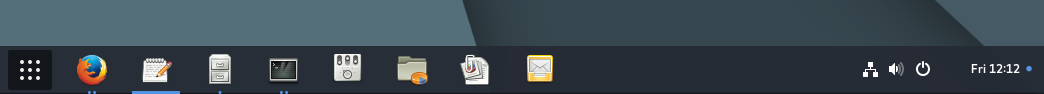
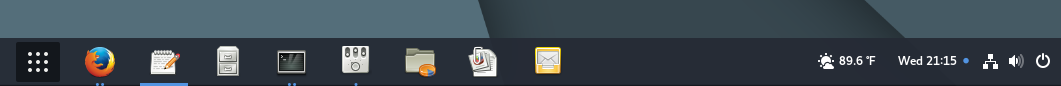
update configuration defaults and screenshot

diff --git a/README.md b/README.md
@@ -2,18 +2,20 @@
 ![screenshot](https://github.com/jderose9/dash-to-panel/raw/master/media/screenshot.png)
 
 ## An icon taskbar for the GNOME Shell
-An icon taskbar for the Gnome Shell. This extension moves the dash into the gnome main panel (top bar) to behave as an icon-only task manager similar to that found in KDE Plasma and Windows 7+.
+An icon taskbar for the Gnome Shell. This extension moves the dash into the gnome main panel so that the application launchers and system tray are combined into a single panel, similar to that found in KDE Plasma and Windows 7+. A separate dock is no longer needed for easy access to running and favorited applications.
 
 ## Features
-- Move the Application Dash from the Overview into the top bar. This allows a Win7/Plasma style de-duped favorites + launcher bar without a separate application dock.
-- Running indicator includes window count and can be positioned at top or bottom of panel.
-- Preview of open windows when hovering over their icons
-- Set Panel position (top/bottom) and height
+- Move the Application Dash from the Overview into the main panel (top bar)
+- Set main panel position (top or bottom) and height
+- Running indicator includes window count and can be positioned at top or bottom of panel
+- Preview of open windows when hovering over icons of running applications
 - Configure clock location
 - Remove "Show Apps" icon from dash
 - Hide Activities button from panel
 - Isolate running apps in workspaces
+- Assign click behaviors (launch new window, cycle open windows, minimize, etc)
 - Assign font & icon sizes and margins for dash icons, status icons and panel elements
+
 
 ## Installation from source
 
@@ -26,7 +28,7 @@ make install
 </pre>
 to install the extension in your home directory. A Shell reload is required <code>Alt+F2 r Enter</code> and the extension has to be enabled  with *gnome-tweak-tool* or with *dconf*.
 
-**I recommend setting Top Bar > Show Applications Menu off in Gnome Tweak Tool.** This will cause the applications menu for native gnome apps (which normally appears in the top bar) to be presented in the top left of the window.
+**I recommend setting Top Bar > Show Applications Menu off in Gnome Tweak Tool.** This will cause the applications menu for native gnome apps (which normally appears in the top bar) to be presented in the top left of the window. It is also recommended to turn Windows > Titlebar Buttons > Minimize & Maximize on.
 
 ## Bug Reporting
 
